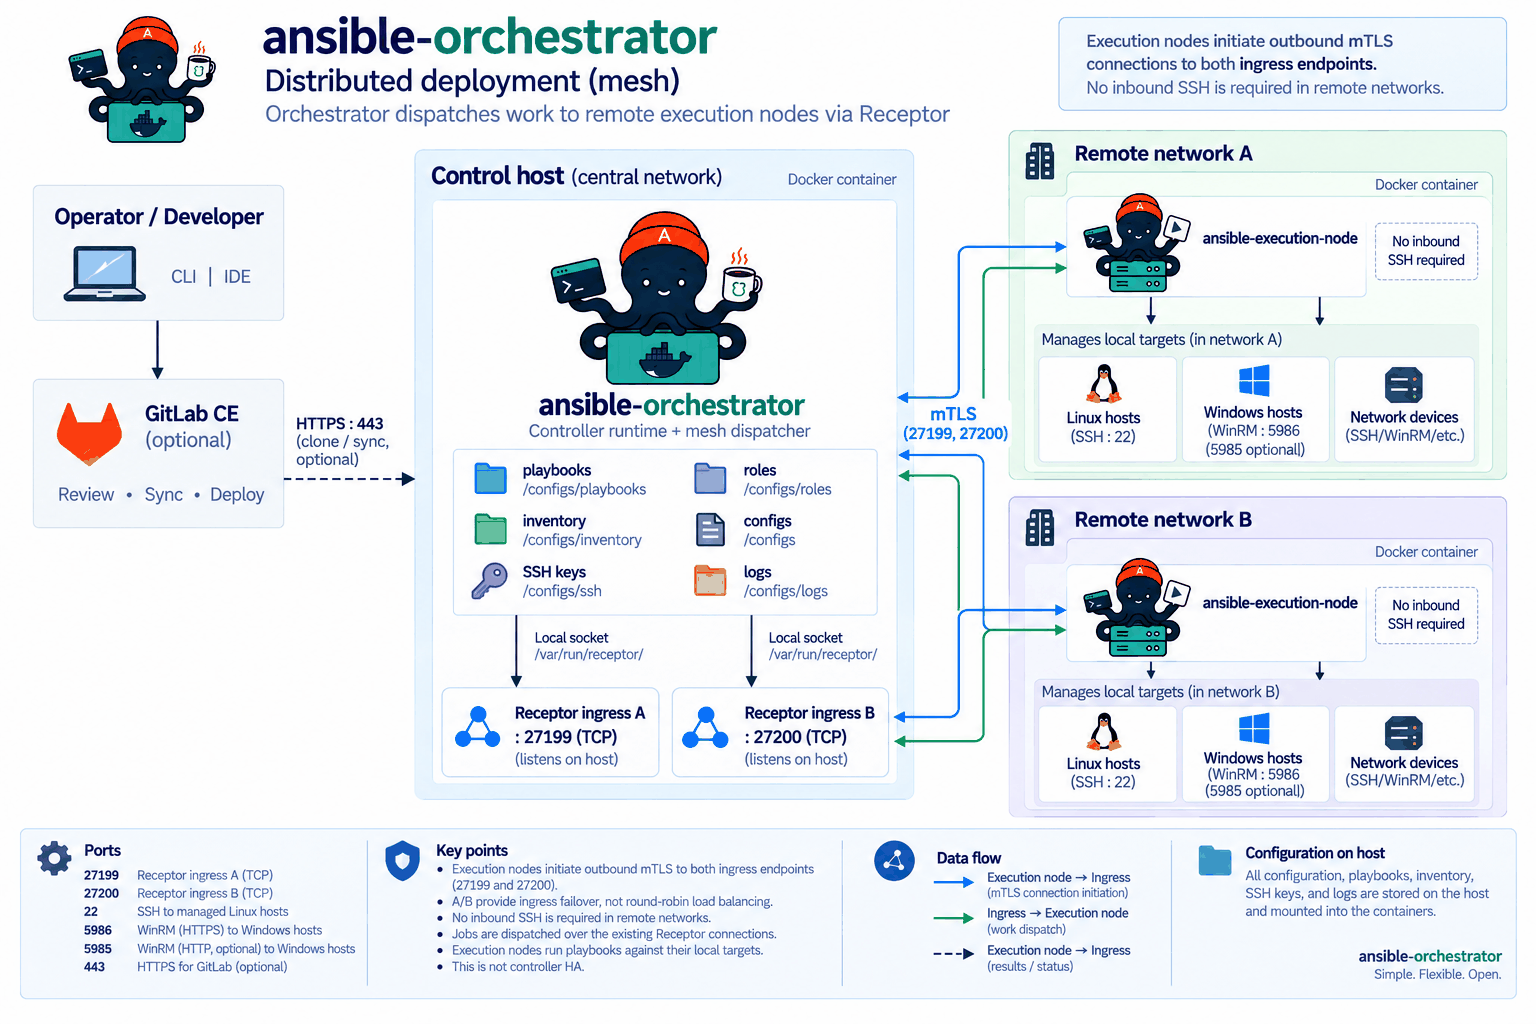
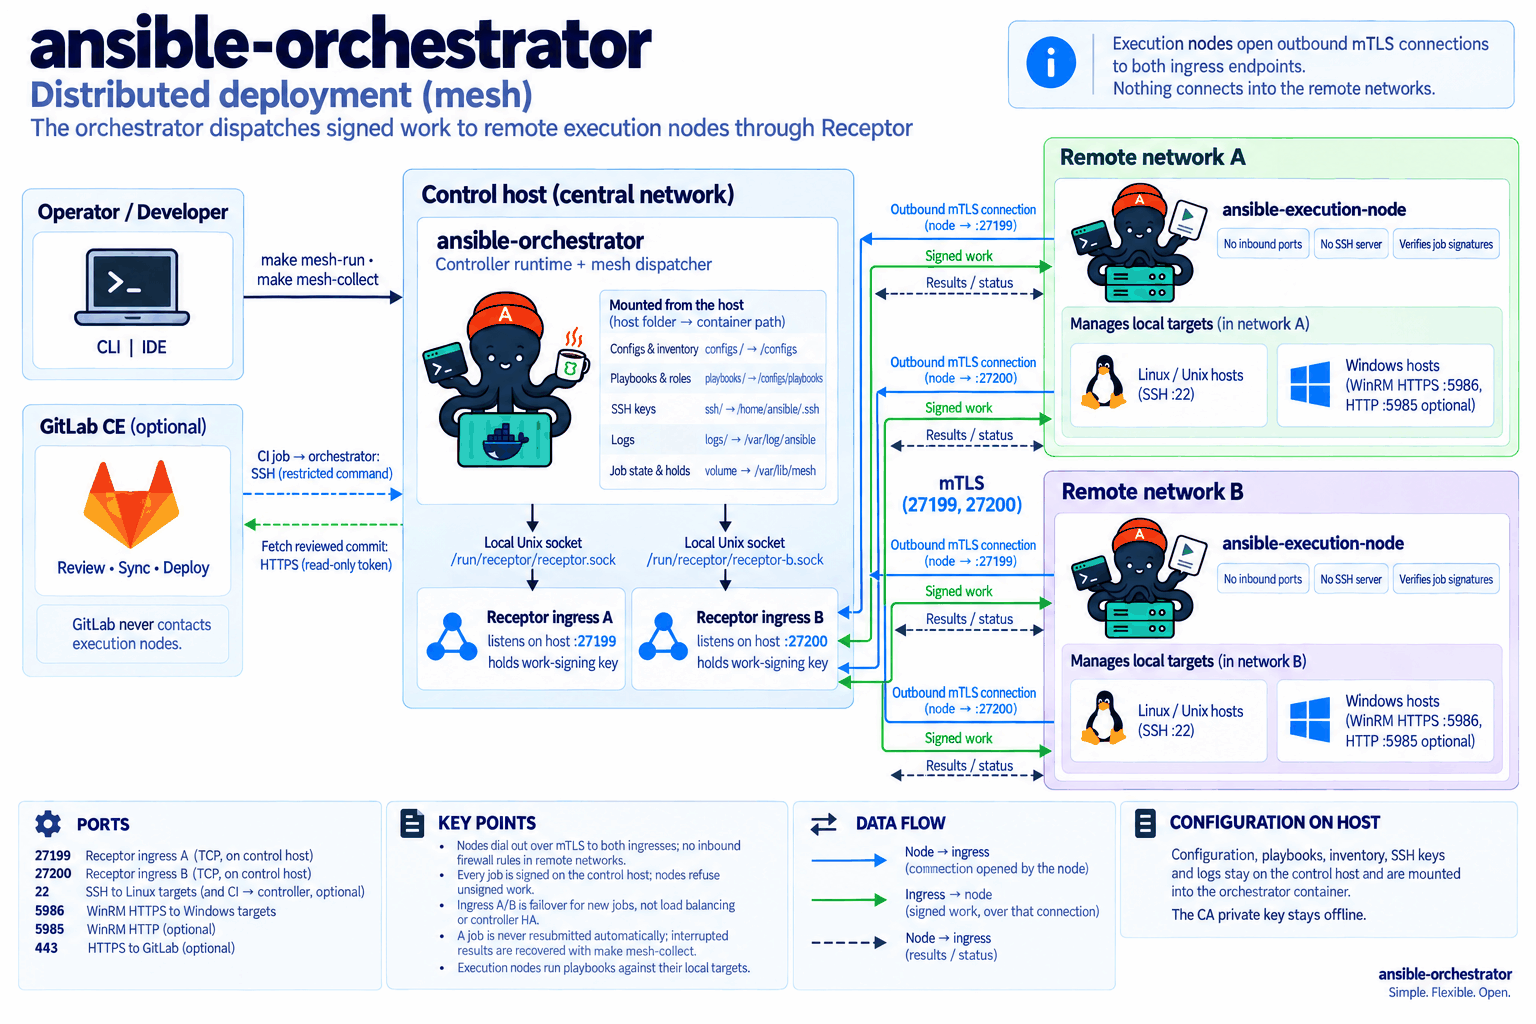
docs: replace deployment diagrams with corrected versions (#125)
The regenerated single and distributed deployment illustrations show the
actual Compose mounts, Receptor socket paths, GitLab connection directions,
ingress sidecars and supported SSH/WinRM targets, so the correction captions
are no longer needed.

Changed region(s): [[0.0, 0.0, 1.0, 1.0]]

diff --git a/docs/README.md b/docs/README.md
@@ -48,8 +48,6 @@ These steps set up a single deployment: one controller running playbooks directl
 
 ![Single deployment: an operator runs playbooks in the ansible-controller container, which connects to Linux, Windows and network targets](../assets/diagrams/single-deployment.png)
 
-<sub>The illustration simplifies some paths. See [How it works](#how-it-works) for the exact mounts.</sub>
-
 ### 1 — Clone the repo
 
 ```bash
@@ -291,8 +289,6 @@ execution mesh** removes that requirement: the controller becomes an
 placed inside segmented networks, and the playbook runs there.
 
 ![Distributed deployment: execution nodes in remote networks connect outbound over mTLS to two Receptor ingresses on the orchestrator's control host and run playbooks against local targets](../assets/diagrams/distributed-deployment.png)
-
-<sub>The illustration simplifies controller paths; the mounts are the same as the [standalone controller](#how-it-works). Receptor control sockets are under `/run/receptor/`.</sub>
 
 Key properties:
 

diff --git a/mesh/README.md b/mesh/README.md
@@ -77,8 +77,6 @@ protocol output stay silent. See [notice opt-outs](../SUPPORT.md#terminal-notice
 
 ![Distributed deployment: execution nodes in remote networks connect outbound over mTLS to two Receptor ingresses on the orchestrator's control host and run playbooks against local targets](../assets/diagrams/distributed-deployment.png)
 
-<sub>The illustration simplifies controller paths: `playbooks/` (including roles) mounts at `/configs/playbooks`, SSH keys at `/home/ansible/.ssh`, logs at `/var/log/ansible`, and Receptor sockets are under `/run/receptor/`. The diagram below shows the connection details.</sub>
-
 ![Outbound node connections to two mesh ingress endpoints](../assets/diagrams/mesh-topology.svg)
 
 Arrows show connection initiation. Signed work and results use those established connections. See the [architecture guide](../docs/ARCHITECTURE.md#mesh-connections-and-work-delivery) for the component and network boundaries.

diff --git a/README.md b/README.md
@@ -34,8 +34,6 @@ An Ubuntu 26.04 container with Ansible, OpenSSH, and Windows/WinRM support. Keep
 
 ![Distributed deployment: execution nodes in remote networks connect outbound over mTLS to two Receptor ingresses on the orchestrator's control host and run playbooks against local targets](assets/diagrams/distributed-deployment.png)
 
-<sub>The illustrations simplify some paths. The included Compose file mounts `configs/` at `/configs`, `playbooks/` (including roles) at `/configs/playbooks`, `ssh/` at `/home/ansible/.ssh`, and `logs/` at `/var/log/ansible`. With GitLab, CI connects to the controller over SSH and the controller fetches the reviewed commit from GitLab over HTTP(S).</sub>
-
 | Image on Docker Hub | Purpose and where it runs |
 |---|---|
 | [ansible-controller](https://hub.docker.com/r/allamiro1/ansible-controller) | Standalone control host. Runs playbooks directly against reachable SSH or WinRM targets. |
